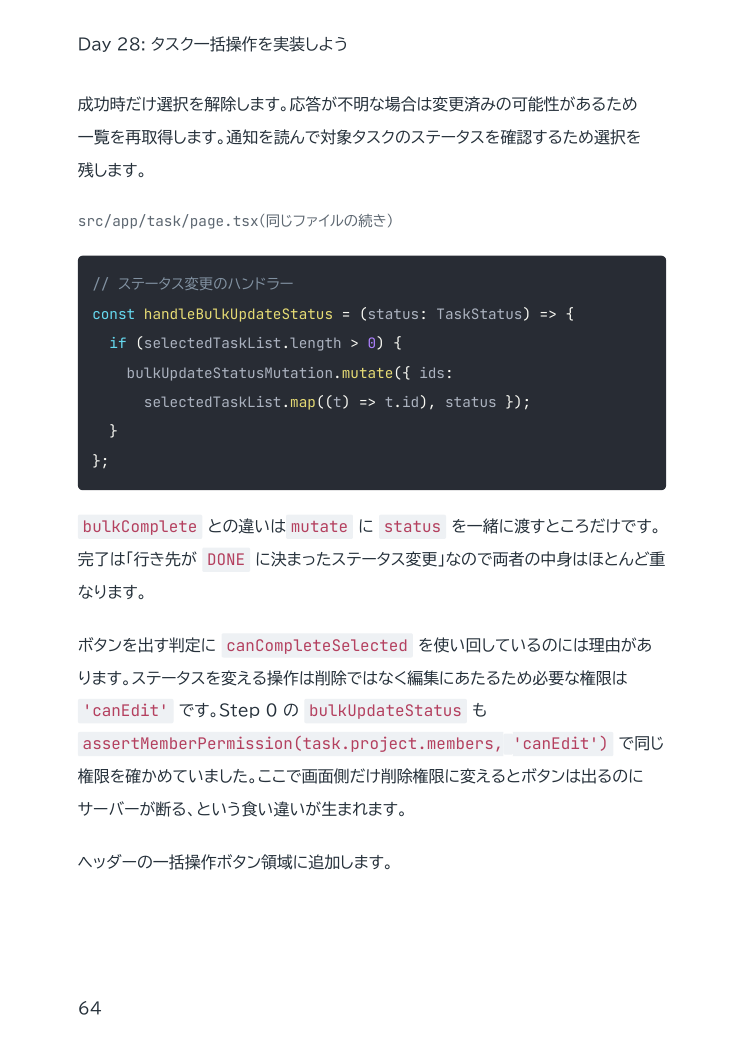
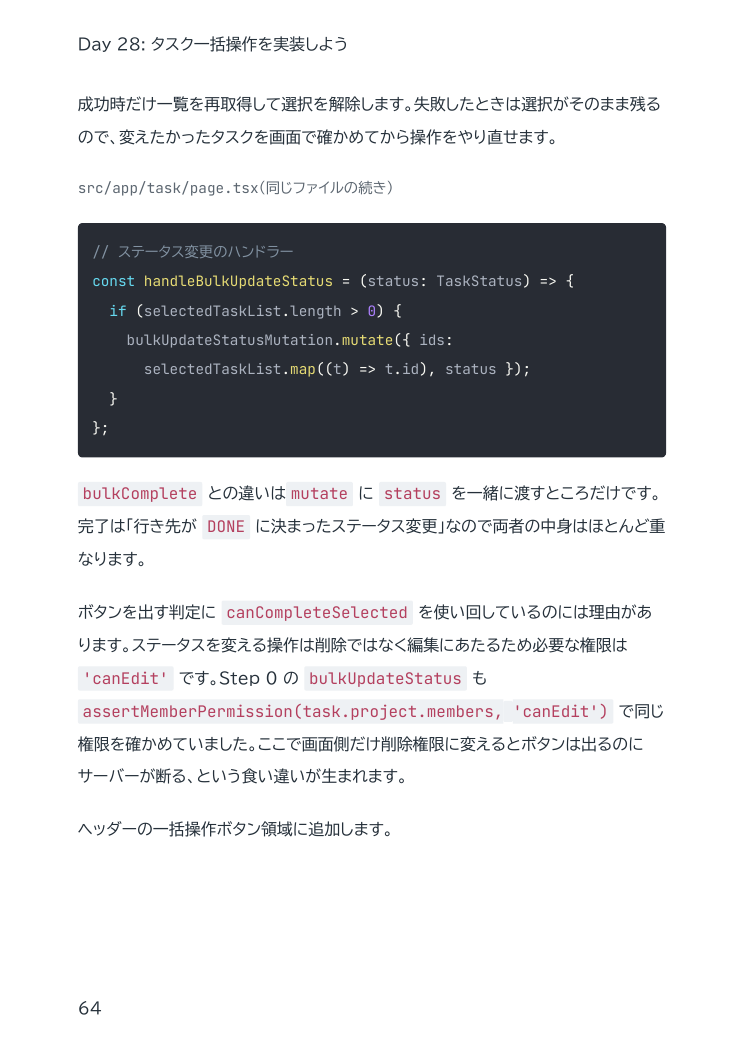
docs(evidence): refresh M09 day28 PDF pages for head 3e0aaea0

Changed region(s): [[0.0926, 0.3951, 0.8953, 0.8205], [0.0926, 0.0912, 0.8953, 0.3951], [0.6792, 0.3343, 0.7101, 0.3951]]

diff --git a/m09/EVIDENCE.md b/m09/EVIDENCE.md
@@ -1,11 +1,11 @@
 # M09 curriculum evidence (PR #667)
 
-- Evidence taken from PR head: `8eeac081190257e837f2279e065427040ef8284e` (branch m09/curriculum-20261015)
+- Evidence taken from PR head: `3e0aaea0e3127b8d2d985d0e8a289b4e8e09cef6` (branch m09/curriculum-20261015)
 - Compared against main: `e69374e796664e308a3963cf0d2c0e3dba7556ac`
 - PDF pages: built locally on the Mac mini with `scripts/pdf-book/build_pdf_book.py` (same builder and `PDF_BOOK_LINK_MAP` as the 教材PDF検査 workflow, which uploads no PDF artifact). Rendered with `pdftoppm -r 90`.
 - Screenshots m09/day12/14/20_side.png were added earlier.
 
-| Day | Page | Before (main e69374e7) | After (head 8eeac081) |
+| Day | Page | Before (main e69374e7) | After (head 3e0aaea0) |
 |---|---|---|---|
 | day24 | Mermaid: 全体図 | [p3](https://github.com/kouiso/task-app/blob/evidence/m09-curriculum-20261015/m09/pdf/day24_before_p3.png) | [p3](https://github.com/kouiso/task-app/blob/evidence/m09-curriculum-20261015/m09/pdf/day24_after_p3.png) |
 | day24 | ユーザー一覧 (createdAt guard) | [p46](https://github.com/kouiso/task-app/blob/evidence/m09-curriculum-20261015/m09/pdf/day24_before_p46.png) | [p46](https://github.com/kouiso/task-app/blob/evidence/m09-curriculum-20261015/m09/pdf/day24_after_p46.png) |
@@ -17,4 +17,4 @@
 | day29 | user-detail-client (戻るボタン) | [p45](https://github.com/kouiso/task-app/blob/evidence/m09-curriculum-20261015/m09/pdf/day29_before_p45.png) | [p46](https://github.com/kouiso/task-app/blob/evidence/m09-curriculum-20261015/m09/pdf/day29_after_p46.png) |
 | day28 | Step 8: handleBulkUpdateStatus (Step section) | [p59](https://github.com/kouiso/task-app/blob/evidence/m09-curriculum-20261015/m09/pdf/day28_before_p59.png) | [p64](https://github.com/kouiso/task-app/blob/evidence/m09-curriculum-20261015/m09/pdf/day28_after_p64.png) |
 
-After pages for day24/28/29 were rebuilt from head 8eeac081; day26 pages are from 12a396cb (day26 is unchanged since then).
+After pages: day28 rebuilt from 3e0aaea0; day24/29 from 8eeac081 and day26 from 12a396cb (those files are unchanged since).
